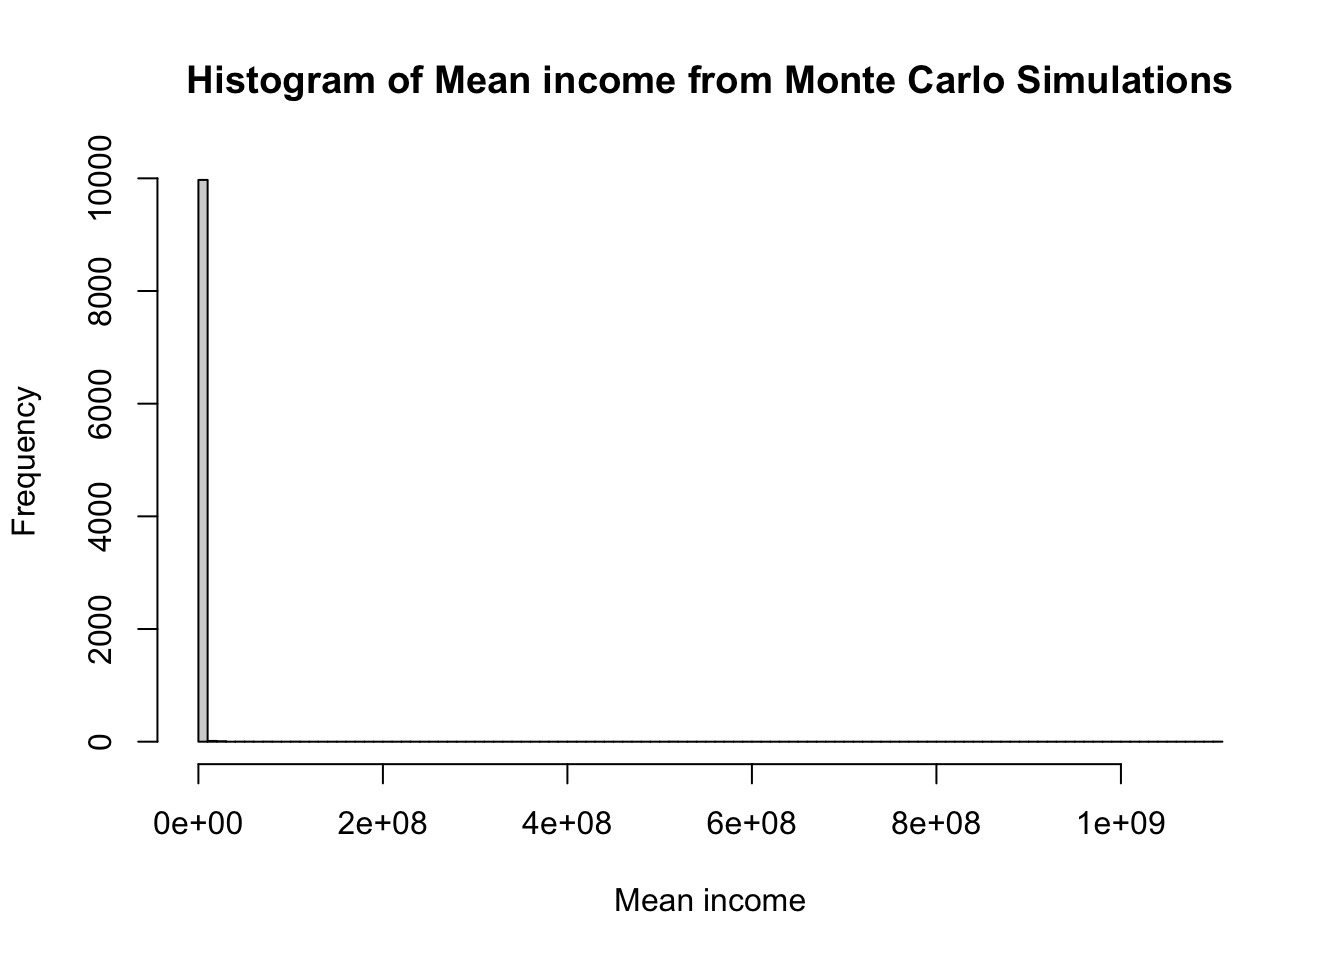
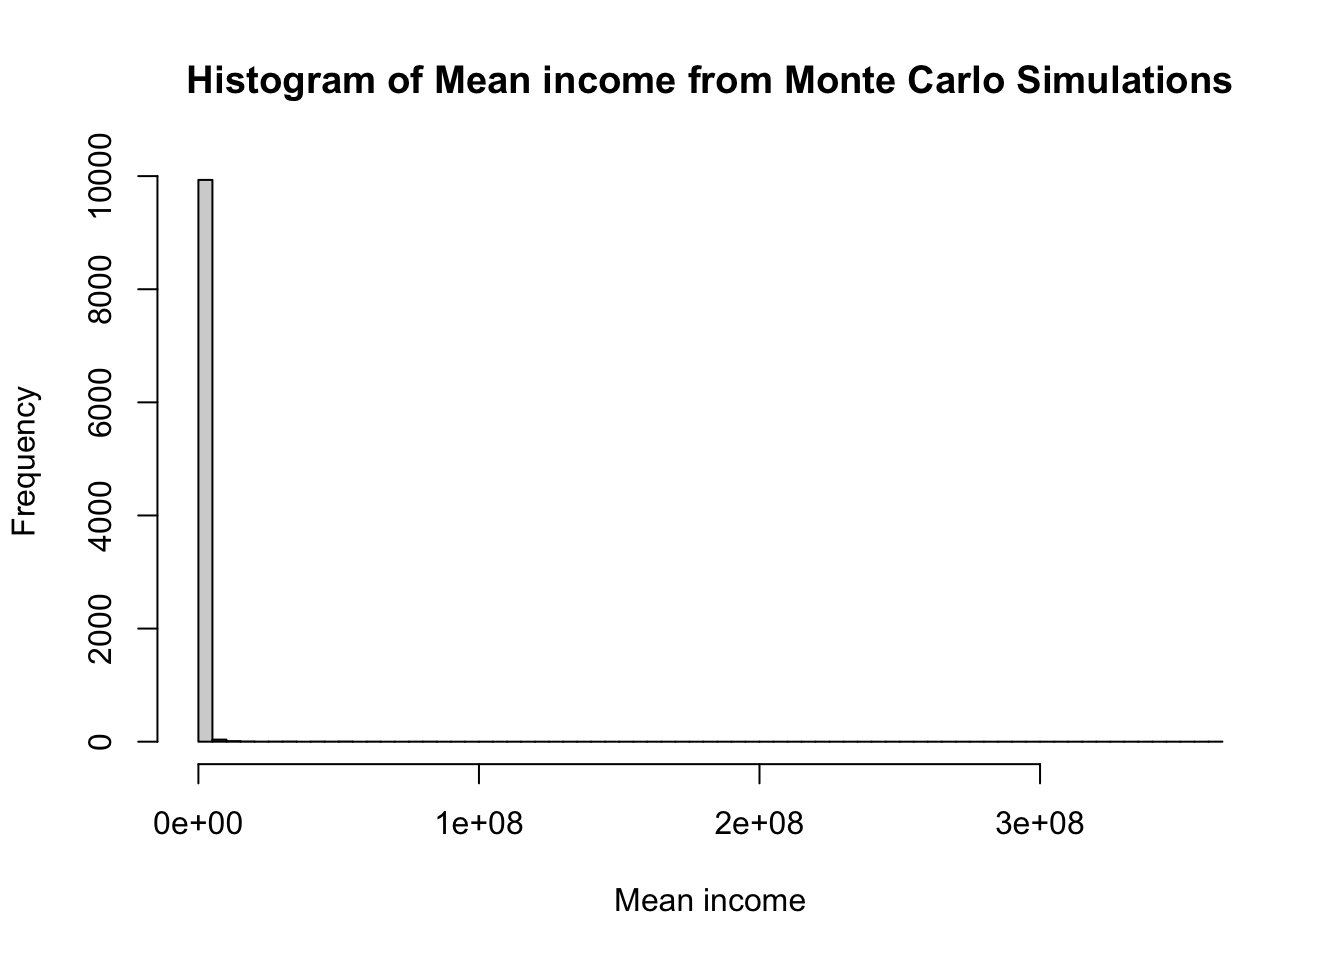
jensen 3924 4

diff --git a/docs/Catallactics/Personal/jenson.html b/docs/Catallactics/Personal/jenson.html
@@ -916,7 +916,7 @@ window.Quarto = {
 <figcaption>Jensen’s inequality</figcaption>
 </figure>
 </div>
-<p>If all assets are deployed at x<sub>1</sub>, the pay-off, g, which is the f(x<sub>1</sub>), we can generate a return of f(E(x<sub>1</sub>))=9% with very high probability of success with almost zero risk. On the other hand, if we deploy all the assets at x<sub>2</sub>, we may generate a mind blowing return of f(E(x<sub>2</sub>))=1000%, but with a very high probability of 100% capital loss.</p>
+<p>If all assets are deployed at x<sub>1</sub>, we can generate a return of f(E(x<sub>1</sub>))=9% with very high probability of success with almost zero risk. On the other hand, if we deploy all the assets at x<sub>2</sub>, we may generate a mind blowing return of f(E(x<sub>2</sub>))=1000%, but with a very high probability of 100% capital loss.</p>
 <p>Assume we have a combination of x<sub>1</sub> and x<sub>2</sub>. Here, Jensen’s inequality says that <strong>expected value of g will always be greater than or equal to the function of the expected value of x, given that the f(x) is convex</strong></p>
 <p><span class="math display">\[
 E(g) &gt;= f(E(x))

diff --git a/docs/posts/montecarlo.html b/docs/posts/montecarlo.html
@@ -1071,7 +1071,7 @@ Income distribution is not normal
 </details>
 <div class="cell-output cell-output-stdout">
 <pre><code>     Min.   1st Qu.    Median      Mean   3rd Qu.      Max. 
-2.102e+05 2.952e+05 3.434e+05 7.143e+05 4.373e+05 1.109e+09 </code></pre>
+   212672    296480    344553    589579    441667 361814961 </code></pre>
 </div>
 <details open="" class="code-fold">
 <summary>Code</summary>
@@ -1079,7 +1079,7 @@ Income distribution is not normal
 </details>
 <div class="cell-output cell-output-stdout">
 <pre><code>   Min. 1st Qu.  Median    Mean 3rd Qu.    Max. 
-  62361   64076   64502   64508   64934   66916 </code></pre>
+  62302   64084   64498   64514   64942   67223 </code></pre>
 </div>
 <details open="" class="code-fold">
 <summary>Code</summary>
@@ -1087,7 +1087,7 @@ Income distribution is not normal
 </details>
 <div class="cell-output cell-output-stdout">
 <pre><code>     Min.   1st Qu.    Median      Mean   3rd Qu.      Max. 
-9.495e+05 3.308e+06 5.704e+06 4.201e+07 1.192e+07 1.109e+11 </code></pre>
+9.737e+05 3.354e+06 5.708e+06 2.949e+07 1.210e+07 3.615e+10 </code></pre>
 </div>
 </div>
 </section>

diff --git a/docs/Biomedical/Research Methodology/wrangling.html b/docs/Biomedical/Research Methodology/wrangling.html
@@ -2370,9 +2370,9 @@ Record
 1:     1     1  child
 2:     2     1  child
 3:     3     1  child
-4:     4     1  child
-5:     5     1  child
-6:     6     0  child</code></pre>
+4:     4     0  child
+5:     5     0  child
+6:     6     1  child</code></pre>
 </div>
 </div>
 <section id="making-data-wide" class="level3">
@@ -2393,9 +2393,9 @@ Record
 1:     1   &lt;NA&gt;  child
 2:     2   &lt;NA&gt;  child
 3:     3   &lt;NA&gt;  child
-4:     4   &lt;NA&gt;  child
-5:     5   &lt;NA&gt;  child
-6:     6  child   &lt;NA&gt;</code></pre>
+4:     4  child   &lt;NA&gt;
+5:     5  child   &lt;NA&gt;
+6:     6   &lt;NA&gt;  child</code></pre>
 </div>
 </div>
 

diff --git a/docs/Revision notes/Diagrams/diagrams.html b/docs/Revision notes/Diagrams/diagrams.html
@@ -1351,7 +1351,7 @@ window.document.addEventListener("DOMContentLoaded", function (event) {
 </div>
   </div>
 </footer>
-<script>var lightboxQuarto = GLightbox({"closeEffect":"zoom","selector":".lightbox","loop":false,"openEffect":"zoom","descPosition":"bottom"});
+<script>var lightboxQuarto = GLightbox({"openEffect":"zoom","loop":false,"descPosition":"bottom","closeEffect":"zoom","selector":".lightbox"});
 window.onload = () => {
   lightboxQuarto.on('slide_before_load', (data) => {
     const { slideIndex, slideNode, slideConfig, player, trigger } = data;
